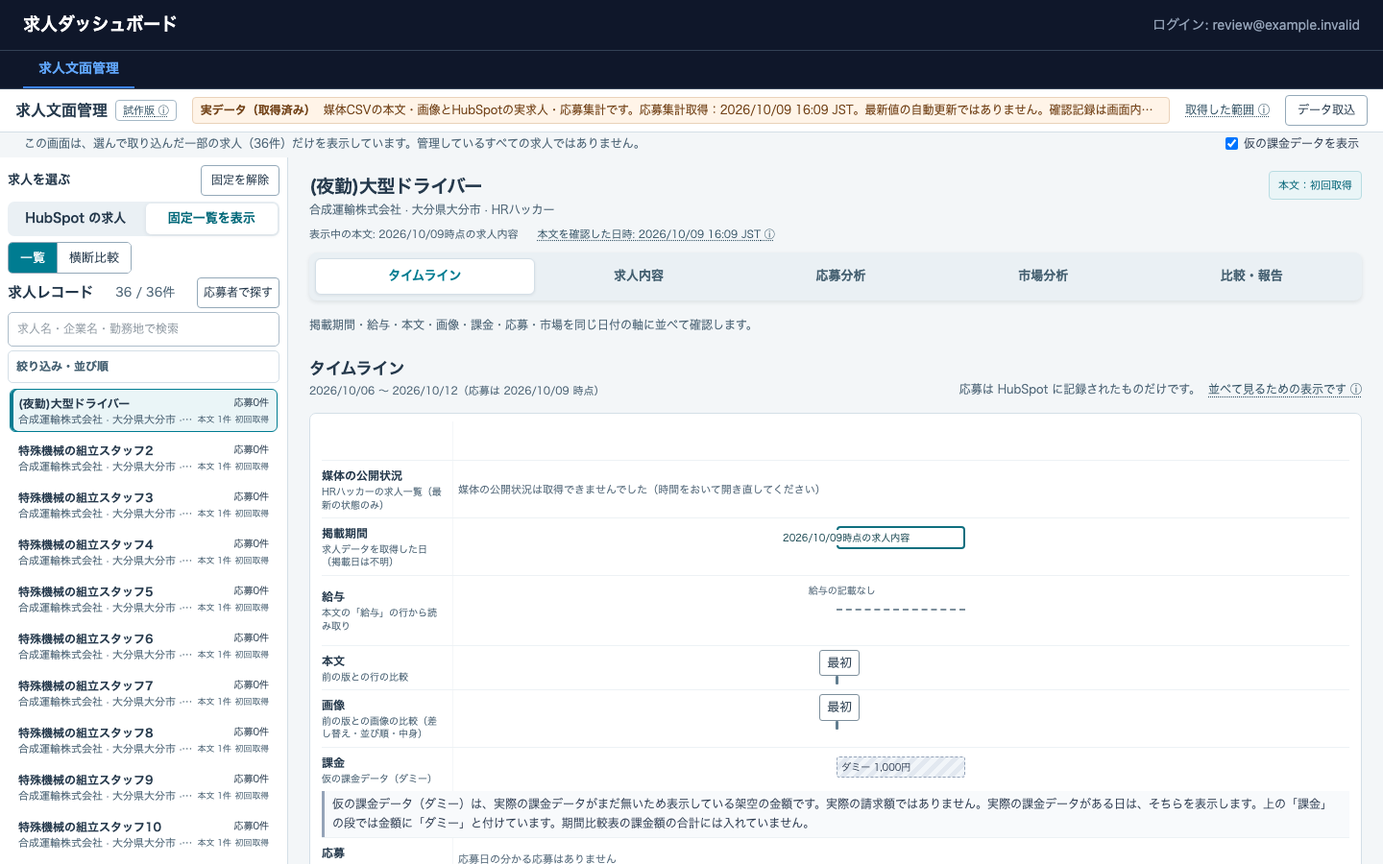
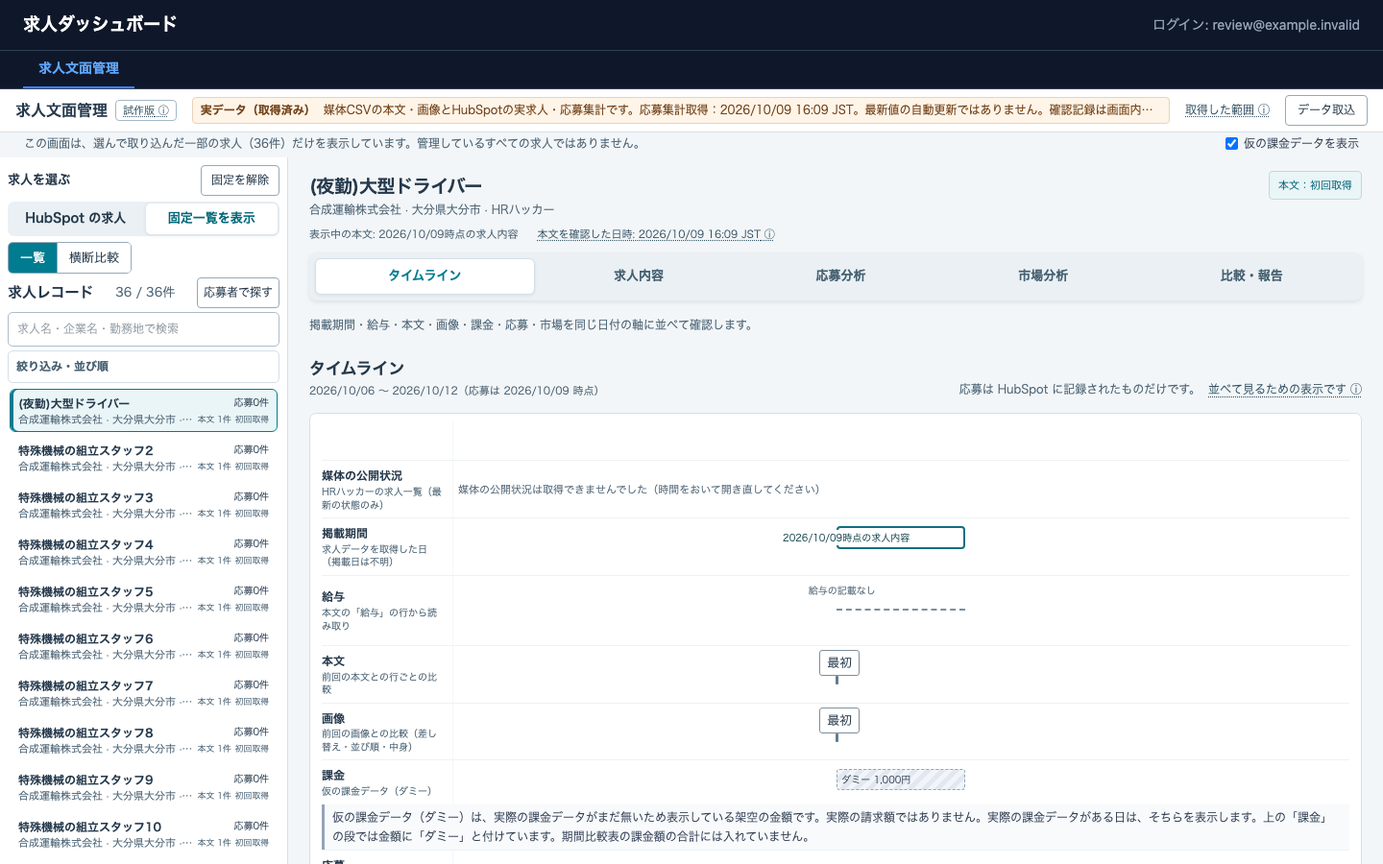
固定一覧の本文と画像の説明を利用者向けの表現に統一する

Changed region(s): [[0.2188, 0.7778, 0.9688, 1.0], [0.5938, 0.8089, 0.625, 0.84]]

diff --git a/frontend/src/screens/job-copy/JobTimeline.tsx b/frontend/src/screens/job-copy/JobTimeline.tsx
@@ -119,7 +119,7 @@ function useTimelineMarket(job: JobCopyRecord, mode: 'api' | 'demo', focus: Mark
 }
 
 const salaryMark = { up: '▲', down: '▼', other: '変更' } as const;
-const salaryWord = { up: '前の版より上がった', down: '前の版より下がった', other: '前の版から変わった' } as const;
+const salaryWord = { up: '前回の本文より上がった', down: '前回の本文より下がった', other: '前回の本文から変わった' } as const;
 const granularityLabel: Record<Granularity, string> = { day: '日', week: '週', month: '月' };
 
 function Lane({ title, source, children, className = '', rows = 1 }: { rows?: number; title: string; source: string; children: ReactNode; className?: string }) {
@@ -223,7 +223,7 @@ export function billingText(row: PeriodRow): string {
   return row.billing.connected ? 'この期間の課金データなし（0円という意味ではありません）' : '課金データなし（0円という意味ではありません）';
 }
 
-/** The 選んだ版 panel's date: the acquisition day, and between which acquisitions it changed. */
+/** The 選んだ本文 panel's date: the acquisition day, and between which acquisitions it changed. */
 export function selectionDateText(change: VersionChange, captured: boolean): string {
   if (!captured) return `${formatDay(change.date)} から（媒体の掲載日時）`;
   if (change.index === 0 || change.previousDate === null) return `${formatDay(change.date)} に取得（最初の取得）`;
@@ -283,7 +283,7 @@ function JobTimelineForJob({ job, billing: injected, marketMode = 'api', onOpenV
   const [granularity, setGranularity] = useState<Granularity>('week');
   const [selected, setSelected] = useState<string | null>(null);
   const reasonIdPrefix = useId();
-  // After a mark or period is chosen, bring the 選んだ版 panel into view (it can sit below the fold).
+  // After a mark or period is chosen, bring the 選んだ本文 panel into view (it can sit below the fold).
   const selectionPanel = useRef<HTMLDivElement>(null);
   useEffect(() => {
     const panel = selectionPanel.current;
@@ -376,9 +376,9 @@ function JobTimelineForJob({ job, billing: injected, marketMode = 'api', onOpenV
       <div><h2>タイムライン</h2><p className="jc-muted">{formatDay(range.start)} 〜 {formatDay(range.end)}（応募は {formatDay(asOf)} 時点）</p></div>
       <div className="jt-scope">応募は HubSpot に記録されたものだけです。<InfoTip label="並べて見るための表示です">
         <p>同じ時期に起きたことを並べて表示しています。応募が増えた・減った理由を示すものではありません。</p>
-        <p>応募件数は HubSpot に記録された応募日で数えています。媒体上のすべての応募ではなく、どの版を見て応募したかは分かりません。</p>
+        <p>応募件数は HubSpot に記録された応募日で数えています。媒体上のすべての応募ではなく、どの本文を見て応募したかは分かりません。</p>
         <p>掲載が変わった日は分かりません。期間比較表は求人データを取得した日で区切り、前後の取得で内容が違うときは「取得日A〜取得日Bの間に変化」として、その間の応募を前後どちらの期間にも入れていません。取得した日も、取得した時刻の前後で変わった可能性があるため、この間に含めます。最後に取得した日より後は「未取得」です。</p>
-        {job.mediaPublication && <p>「媒体の公開状況」は HRハッカーの求人一覧の最新の状態で、求人全体の公開期間です。「掲載期間」はどの内容（版）がいつ載っていたかを、求人データを取得した日で示します。{publicationNotes(job.mediaPublication).join('')}</p>}
+        {job.mediaPublication && <p>「媒体の公開状況」は HRハッカーの求人一覧の最新の状態で、求人全体の公開期間です。「掲載期間」はどの本文がいつ載っていたかを、求人データを取得した日で示します。{publicationNotes(job.mediaPublication).join('')}</p>}
         <p>期間の長さが違うので「1日あたり」で並べて確認してください。{MIN_RATE_DAYS}日に満たない期間は1日あたりを出さず、比べません（求人の横断比較と同じ扱い）。</p>
       </InfoTip></div>
     </header>
@@ -423,7 +423,7 @@ function JobTimelineForJob({ job, billing: injected, marketMode = 'api', onOpenV
         })}
       </Lane>
 
-      <Lane rows={rowCount} title="本文" source="前の版との行の比較">
+      <Lane rows={rowCount} title="本文" source="前回の本文との行ごとの比較">
         {changes.map(change => <button type="button" key={change.versionId} className={`jt-mark${change.index > 0 && change.bodyStatus === 'changed' ? ' jt-mark-changed' : ''}`} aria-pressed={selected === change.versionId}
           style={{ ...pinned(change.date, range), top: `${String(4 + (labelRows[change.index] ?? 0) * 28)}px` }} onClick={() => { setSelected(change.versionId); }}
           aria-label={`${change.label}の本文：${bodyMark(change).spoken}`}>
@@ -431,7 +431,7 @@ function JobTimelineForJob({ job, billing: injected, marketMode = 'api', onOpenV
         </button>)}
       </Lane>
 
-      <Lane rows={rowCount} title="画像" source="前の版との画像の比較（差し替え・並び順・中身）">
+      <Lane rows={rowCount} title="画像" source="前回の画像との比較（差し替え・並び順・中身）">
         {changes.map(change => <button type="button" key={change.versionId} className={`jt-mark jt-image-${change.imageChange}`} aria-pressed={selected === change.versionId}
           style={{ ...pinned(change.date, range), top: `${String(4 + (labelRows[change.index] ?? 0) * 28)}px` }} onClick={() => { setSelected(change.versionId); }}
           aria-label={`${change.label}の画像：${IMAGE_CHANGE_MARK[change.imageChange].spoken}`}>
@@ -460,7 +460,7 @@ function JobTimelineForJob({ job, billing: injected, marketMode = 'api', onOpenV
         <div className="jt-granularity" role="group" aria-label="応募の集計単位">{(['day', 'week', 'month'] as const).map(value => <button type="button" key={value} aria-pressed={granularity === value} onClick={() => { setGranularity(value); }}>{granularityLabel[value]}ごと</button>)}</div>
         {applications && applications.missingDate > 0 && <span>応募日が分からない応募 {applications.missingDate}件 はグラフに含めていません</span>}
         {outside > 0 && <span>{captured ? `最初に取得した日まで（その日を含む）の応募 ${String(outside)}件` : `最初の掲載より前の日付の応募 ${String(outside)}件`}</span>}
-        {unsure > 0 && <span>取得日の間・最後の取得より後の応募 {unsure}件 は、どちらの内容への応募か分からないため期間比較表の各版には入れていません</span>}
+        {unsure > 0 && <span>取得日の間・最後の取得より後の応募 {unsure}件 は、どちらの内容への応募か分からないため期間比較表の各本文には入れていません</span>}
         {multi ? multiTotal > 0 && <span>複数の求人に関連する応募 {multiTotal}件 は期間比較表に入れていません</span>
           : applications?.byDate && <span>複数の求人に関連する応募を見分ける情報を取得していないため、期間比較表の件数に含まれている場合があります</span>}
       </div>
@@ -508,12 +508,12 @@ function JobTimelineForJob({ job, billing: injected, marketMode = 'api', onOpenV
       </div>
     </div>
 
-    {selectedChange && <div className="jt-selection" ref={selectionPanel} role="region" aria-label="選んだ版">
+    {selectedChange && <div className="jt-selection" ref={selectionPanel} role="region" aria-label="選んだ本文">
       <strong>{selectedChange.label}</strong><span>{selectionDateText(selectedChange, periods[selectedChange.index]?.basis === 'captured')} · 給与 {salaryLabel(selectedChange.salary)}</span>
       {onOpenVersion && <button type="button" className="jc-button" onClick={() => { onOpenVersion(selectedChange.versionId); }}>本文・画像を開く</button>}
-      {onCompareVersions && previous && <button type="button" className="jc-button" onClick={() => { onCompareVersions(previous.versionId, selectedChange.versionId); }}>前の版との差分を開く</button>}
-      {previous && selectedChange.bodyStatus === 'unchanged' && selectedChange.imageChange === 'same' && <span>前の版から本文・画像の変更はありません</span>}
-      {previous && selectedChange.bodyStatus === 'unchanged' && selectedChange.imageChange !== 'same' && <span>本文は前の版と同じです。画像：{IMAGE_CHANGE_MARK[selectedChange.imageChange].spoken}</span>}
+      {onCompareVersions && previous && <button type="button" className="jc-button" onClick={() => { onCompareVersions(previous.versionId, selectedChange.versionId); }}>前回の本文との違いを見る</button>}
+      {previous && selectedChange.bodyStatus === 'unchanged' && selectedChange.imageChange === 'same' && <span>前回から本文・画像の変更はありません</span>}
+      {previous && selectedChange.bodyStatus === 'unchanged' && selectedChange.imageChange !== 'same' && <span>本文は前回と同じです。画像：{IMAGE_CHANGE_MARK[selectedChange.imageChange].spoken}</span>}
     </div>}
     <div className="jt-legend" role="group" aria-label="凡例">{captured
       ? <><span className="jt-legend-title">掲載日は不明（取得日で表示）：</span><span><i className="jt-key jt-basis-captured" />取得した日の内容</span><span><i className="jt-key jt-key-zone" />取得日の間（どちらの内容か分からない）</span><span><i className="jt-key jt-key-unacquired" />最後の取得より後（未取得）</span></>
@@ -538,7 +538,7 @@ function JobTimelineForJob({ job, billing: injected, marketMode = 'api', onOpenV
       {rows.some(row => !row.afterCounts && row.applications === null) && <p className="jt-table-note">「未取得」は応募日ごとの件数を取得していないという意味です。0件という意味ではありません。</p>}
       {rows.some(row => row.kind === 'between' || row.kind === 'unacquired') && <p className="jt-table-note">「取得日の間」と「最後の取得より後」の行の応募は、どちらの内容を見た応募か分からないため、前後の期間に入れず別に数えています。応募は日付だけで記録されていて、取得した日も取得した時刻の前後で内容が変わった可能性があるため、取得した日の応募もこれらの行に入れています。1日あたりは比べません。</p>}
       {rows.some(row => !row.afterCounts && row.applications !== null && row.shortPeriod && (row.kind === 'period' || row.kind === 'gap')) && <p className="jt-table-note">「期間が短いため比べません」は、{MIN_RATE_DAYS}日に満たない期間です。1日や2日の件数を1日あたりに直すと大きく振れるため、比べません。</p>}
-      {rows.some(row => row.billing.connected && row.billing.prorated) && <p className="jt-table-note">「約」の付いた課金額は、課金の期間と版の期間がずれているため、日数で割って配分した金額です。</p>}
+      {rows.some(row => row.billing.connected && row.billing.prorated) && <p className="jt-table-note">「約」の付いた課金額は、課金の期間と本文の表示期間がずれているため、日数で割って配分した金額です。</p>}
     </section>
     {reasonClasses && <section className="jt-periods jt-reasons" aria-label="期間ごとの応募理由">
       <h3>期間ごとの応募理由</h3>

diff --git a/tests/e2e/pr/job_copy.spec.ts b/tests/e2e/pr/job_copy.spec.ts
@@ -101,7 +101,7 @@ test.describe('求人文面管理のタイムライン', () => {
     await expect(rows.nth(1).locator('td')).toHaveText(['50日', '5件', '比べません', noRealBilling, '+4.5%（2026年7月 220件 → 2026年8月 230件）']);
     await expect(rows.nth(2).locator('td')).toHaveText(['0日', '別の行に数えます', '期間が短いため比べません', '—', '同じ月の中（2026年8月 230件）']);
     await expect(timeline.getByRole('region', { name: '期間比較表の数値' })).not.toContainText(/11万7,742円|2,355円/u);
-    await expect(timeline).toContainText('取得日の間・最後の取得より後の応募 5件 は、どちらの内容への応募か分からないため期間比較表の各版には入れていません');
+    await expect(timeline).toContainText('取得日の間・最後の取得より後の応募 5件 は、どちらの内容への応募か分からないため期間比較表の各本文には入れていません');
     // 掲載期間の段: 取得日の間を別の帯で示し、凡例は「掲載日は不明（取得日で表示）」
     const periodLane = timeline.getByRole('group', { name: '掲載期間', exact: true });
     await expect(periodLane.locator('.jt-zone')).toHaveCount(1);
@@ -189,14 +189,14 @@ test.describe('求人文面管理のタイムライン', () => {
     for (const mark of overlaps) expect(mark.pinTop, `${String(mark.label)} の線が文字に重なる`).toBeGreaterThanOrEqual(mark.textBottom);
   });
 
-  test('1100x623 で上の帯が 1 行に収まり、印を選ぶと「選んだ版」が画面内に出る', async ({ page }) => {
+  test('1100x623 で上の帯が 1 行に収まり、印を選ぶと「選んだ本文」が画面内に出る', async ({ page }) => {
     await page.setViewportSize({ width: 1100, height: 623 });
     await open(page);
     const topline = await page.locator('.jc-topline').evaluate(element => element.getBoundingClientRect().height);
     expect(topline).toBeLessThan(60);
     const timeline = page.getByRole('region', { name: 'タイムライン', exact: true });
     await timeline.getByRole('group', { name: '本文', exact: true }).locator('.jt-mark').last().click();
-    const panel = timeline.getByRole('region', { name: '選んだ版', exact: true });
+    const panel = timeline.getByRole('region', { name: '選んだ本文', exact: true });
     await expect(panel).toContainText('2026/08/20時点の求人内容');
     await expect(panel).toBeInViewport({ ratio: 0.98 });
     await expect(panel).toContainText('2026/08/20 に取得（前回の取得 2026/07/01 以降に変化）');
@@ -294,11 +294,11 @@ test.describe('求人文面管理のタイムライン', () => {
     await expect(rows.nth(0).locator('td').nth(3)).toHaveText('—');
     await expect(rows.nth(1).locator('td').nth(3)).toHaveText('約2万円（仮の課金データ（ダミー）は合計に入れていません）');
     await expect(rows.nth(2).locator('td').nth(3)).toHaveText('—');
-    await expect(timeline.getByText('「約」の付いた課金額は、課金の期間と版の期間がずれているため、日数で割って配分した金額です。', { exact: true })).toBeVisible();
+    await expect(timeline.getByText('「約」の付いた課金額は、課金の期間と本文の表示期間がずれているため、日数で割って配分した金額です。', { exact: true })).toBeVisible();
     await expect(table.locator('[title]')).toHaveCount(0);
     // 本文の印: 画面の文字と読み上げが同じことを言う
     const marks = await timeline.getByRole('group', { name: '本文', exact: true }).locator('.jt-mark').evaluateAll(elements => elements.map(element => [element.textContent, element.getAttribute('aria-label')]));
-    expect(marks).toEqual([['最初', '2026/07/01時点の求人内容の本文：最初の版'], ['追加1・削除1', '2026/08/20時点の求人内容の本文：1行追加・1行削除']]);
+    expect(marks).toEqual([['最初', '2026/07/01時点の求人内容の本文：最初の本文'], ['追加1・削除1', '2026/08/20時点の求人内容の本文：1行追加・1行削除']]);
     await expect(page.locator('[data-testid="jt-applications"][data-chart-ready="true"]')).toHaveCount(1);
     await expect(page.locator('[data-testid="jt-market"][data-chart-ready="true"]')).toHaveCount(1);
     // 求人内容でも、内部の呼び方（媒体取得版・受信版・確定対応・推定対応）を出さない

diff --git a/frontend/src/screens/job-copy/timelineRound5.test.tsx b/frontend/src/screens/job-copy/timelineRound5.test.tsx
@@ -47,10 +47,10 @@ describe('本文 lane mark', () => {
     const marks = [...screen.getByRole('group', { name: '本文' }).querySelectorAll('button')];
     expect(marks.map(mark => mark.textContent)).toEqual(['最初', '改行のみ', '比べられない', '比べられない']);
     expect(marks.map(mark => mark.getAttribute('aria-label'))).toEqual([
-      '初回の本文：最初の版',
+      '初回の本文：最初の本文',
       '改行違いの本文：改行だけが違います',
-      '空本文の本文：本文が無いため、前の版と比べられません',
-      '同じ本文の本文：本文が無いため、前の版と比べられません',
+      '空本文の本文：本文が無いため、前回の本文と比べられません',
+      '同じ本文の本文：本文が無いため、前回の本文と比べられません',
     ]);
     expect(marks.map(mark => mark.textContent).join('')).not.toContain('追加0');
     expect(marks.some(mark => (mark.getAttribute('aria-label') ?? '').includes('行追加'))).toBe(false);
@@ -58,8 +58,8 @@ describe('本文 lane mark', () => {
 
   it('gives the same counts in the text and the spoken label for a changed body', () => {
     expect(bodyMark({ index: 1, bodyStatus: 'changed', bodyAdded: 2, bodyRemoved: 1 })).toEqual({ text: '追加2・削除1', spoken: '2行追加・1行削除' });
-    expect(bodyMark({ index: 1, bodyStatus: 'unchanged', bodyAdded: 0, bodyRemoved: 0 })).toEqual({ text: '同じ', spoken: '前の版と同じ' });
-    expect(bodyMark({ index: 0, bodyStatus: 'unavailable', bodyAdded: 0, bodyRemoved: 0 })).toEqual({ text: '最初', spoken: '最初の版' });
+    expect(bodyMark({ index: 1, bodyStatus: 'unchanged', bodyAdded: 0, bodyRemoved: 0 })).toEqual({ text: '同じ', spoken: '前回の本文と同じ' });
+    expect(bodyMark({ index: 0, bodyStatus: 'unavailable', bodyAdded: 0, bodyRemoved: 0 })).toEqual({ text: '最初', spoken: '最初の本文' });
   });
 });
 
@@ -72,7 +72,7 @@ describe('explanations that can be read without hovering', () => {
     const table = screen.getByRole('region', { name: '期間比較表の数値' });
     expect(table.querySelectorAll('[title]')).toHaveLength(0);
     expect(table.textContent).toContain('約2万8,125円');
-    expect(screen.getByText('「約」の付いた課金額は、課金の期間と版の期間がずれているため、日数で割って配分した金額です。')).toBeTruthy();
+    expect(screen.getByText('「約」の付いた課金額は、課金の期間と本文の表示期間がずれているため、日数で割って配分した金額です。')).toBeTruthy();
   });
 
   it('shows the 未取得 note when application dates were never fetched', () => {
@@ -109,7 +109,7 @@ describe('explanations that can be read without hovering', () => {
 describe('plain names for version kinds and counts', () => {
   it('treats the old internal names as developer terms', () => {
     for (const word of ['媒体取得版', '媒体CSV取得版', '受信版', '確定対応', '推定対応', '選択版の確定＋推定対応']) expect(word).toMatch(JARGON_PATTERN);
-    for (const word of ['媒体から取り込んだ求人', '確認待ちの文面', '応募日で結びついた応募', '気づいた日の版で数えた応募', '選んだ版に結びついた応募']) expect(word).not.toMatch(JARGON_PATTERN);
+    for (const word of ['媒体から取り込んだ求人', '確認待ちの文面', '応募日で結びついた応募', '気づいた日の版で数えた応募', '選んだ本文に結びついた応募']) expect(word).not.toMatch(JARGON_PATTERN);
   });
 
   it('names a received text 確認待ちの文面 and shows no developer terms after adding it', async () => {

diff --git a/frontend/src/screens/job-copy/timelineRound3.test.tsx b/frontend/src/screens/job-copy/timelineRound3.test.tsx
@@ -47,14 +47,14 @@ describe('salary direction (▲ only for a raise)', () => {
     render(<JobTimeline job={demo('demo-job-001')} marketMode="demo" />);
     const labels = [...screen.getByRole('group', { name: '給与' }).querySelectorAll('.jt-salary-label')].map(label => label.textContent);
     expect(labels).toEqual(['月給25万〜28万円', '▲月給27万〜30万円', '▼月給25万〜28万円']);
-    expect(screen.getByRole('img', { name: '前の版より下がった' }).textContent).toBe('▼');
-    expect(screen.getByRole('img', { name: '前の版より上がった' }).textContent).toBe('▲');
+    expect(screen.getByRole('img', { name: '前回の本文より下がった' }).textContent).toBe('▼');
+    expect(screen.getByRole('img', { name: '前回の本文より上がった' }).textContent).toBe('▲');
   });
   it('says 変更 (not ▲ or ▼) when the kind of pay changes', () => {
     const job = synthetic([version('a', '2026-07-01T00:00:00Z', '給与：月給250,000円'), version('b', '2026-08-01T00:00:00Z', '給与：時給1,500円')]);
     expect(versionChanges(job).map(change => change.salaryDirection)).toEqual([null, 'other']);
     render(<JobTimeline job={job} marketMode="demo" />);
-    expect(screen.getByRole('img', { name: '前の版から変わった' }).textContent).toBe('変更');
+    expect(screen.getByRole('img', { name: '前回の本文から変わった' }).textContent).toBe('変更');
   });
   it('compares the upper bound when the lower bound is the same', () => {
     const job = synthetic([version('a', '2026-07-01T00:00:00Z', '給与：月給250,000円〜300,000円'), version('b', '2026-08-01T00:00:00Z', '給与：月給250,000円〜280,000円')]);
@@ -63,16 +63,16 @@ describe('salary direction (▲ only for a raise)', () => {
 });
 
 describe('selection, retry focus and announcements', () => {
-  it('scrolls the 選んだ版 panel into view after a mark is chosen, and the panel sits right under the lanes', () => {
+  it('scrolls the 選んだ本文 panel into view after a mark is chosen, and the panel sits right under the lanes', () => {
     const scroll = vi.fn();
     Object.defineProperty(HTMLElement.prototype, 'scrollIntoView', { configurable: true, writable: true, value: scroll });
     render(<JobTimeline job={demo('demo-job-001')} marketMode="demo" onOpenVersion={() => undefined} onCompareVersions={() => undefined} />);
     fireEvent.click(screen.getByRole('button', { name: /給与・勤務条件変更の本文/ }));
-    const panel = screen.getByRole('region', { name: '選んだ版' });
+    const panel = screen.getByRole('region', { name: '選んだ本文' });
     expect(scroll).toHaveBeenCalledWith({ block: 'nearest' });
     expect(scroll.mock.contexts.at(-1)).toBe(panel);
     expect(panel.previousElementSibling?.classList.contains('jt-lanes')).toBe(true);
-    expect(within(panel).getByRole('button', { name: '前の版との差分を開く' })).toBeTruthy();
+    expect(within(panel).getByRole('button', { name: '前回の本文との違いを見る' })).toBeTruthy();
   });
 
   it('keeps the retry button while retrying, then moves focus to 職種 and announces the result', async () => {

diff --git a/frontend/src/screens/job-copy/timelineConformance.test.tsx b/frontend/src/screens/job-copy/timelineConformance.test.tsx
@@ -99,7 +99,7 @@ describe('1. versions dated by acquisition day', () => {
     const third = within(screen.getByRole('group', { name: '本文' })).getAllByRole('button')[2];
     if (!third) throw new Error('missing the third 本文 mark');
     fireEvent.click(third);
-    expect(screen.getByRole('region', { name: '選んだ版' }).textContent).toContain('2026/08/20 に取得（前回の取得 2026/07/15 以降に変化）');
+    expect(screen.getByRole('region', { name: '選んだ本文' }).textContent).toContain('2026/08/20 に取得（前回の取得 2026/07/15 以降に変化）');
     const cells = within(screen.getByRole('region', { name: '期間比較表の数値' })).getAllByRole('row').slice(1).map(row => row.querySelectorAll('td')[2]?.textContent);
     expect(cells).toEqual(['0.15件/日', '期間が短いため比べません', '比べません', '期間が短いため比べません', '比べません']);
     const counts = within(screen.getByRole('region', { name: '期間比較表の数値' })).getAllByRole('row').slice(1).map(row => row.querySelectorAll('td')[1]?.textContent);
@@ -153,16 +153,16 @@ describe('2. images: references and file contents', () => {
     render(<JobTimeline job={record} marketMode="demo" showDummyBilling={false} />);
     const marks = within(screen.getByRole('group', { name: '画像' })).getAllByRole('button');
     expect(marks.map(mark => [mark.textContent, mark.getAttribute('aria-label')])).toEqual([
-      ['最初', `${changes[0]?.label ?? ''}の画像：最初の版`],
+      ['最初', `${changes[0]?.label ?? ''}の画像：最初の本文`],
       ['中身', `${changes[1]?.label ?? ''}の画像：同じ場所の画像の中身が変わりました`],
-      ['未取得', `${changes[2]?.label ?? ''}の画像：この版の画像は未取得です`],
+      ['未取得', `${changes[2]?.label ?? ''}の画像：この本文に対応する画像は未取得です`],
     ]);
     const second = marks[1];
     if (!second) throw new Error('missing the second 画像 mark');
     fireEvent.click(second);
-    const panel = screen.getByRole('region', { name: '選んだ版' });
-    expect(panel.textContent).not.toContain('前の版から本文・画像の変更はありません');
-    expect(panel.textContent).toContain('本文は前の版と同じです。画像：同じ場所の画像の中身が変わりました');
+    const panel = screen.getByRole('region', { name: '選んだ本文' });
+    expect(panel.textContent).not.toContain('前回から本文・画像の変更はありません');
+    expect(panel.textContent).toContain('本文は前回と同じです。画像：同じ場所の画像の中身が変わりました');
     // The days between i1 and i2 belong to neither version (the images changed in between).
     expect(periodRows(record, { asOf: '2026-07-20', dummyBilling: false }).map(row => row.kind)).toEqual(['period', 'between', 'period', 'between', 'period']);
   });

diff --git a/frontend/src/screens/job-copy/mediaCaptureParser.ts b/frontend/src/screens/job-copy/mediaCaptureParser.ts
@@ -97,16 +97,16 @@ function observedVersion(item: Record<string, unknown>, id: string, capturedAt: 
   }
   // Without the CSV's image URLs and with no images, the version's images are not known at all.
   const urlsUnknown = references === undefined && images.length === 0;
-  const archived = historicBytes !== false ? '' : urlsUnknown ? '過去時点の画像ファイルとこの版の画像URLは未取得です。前後の版と画像を比べられません。'
-    : `過去時点の画像ファイルは未保存です。${images.length ? '表示画像は後日取得したものです。' : ''}画像の変化は媒体CSVの画像URLと並び順で判定しています。`;
+  const archived = historicBytes !== false ? '' : urlsUnknown ? '過去時点の画像ファイルとこの本文に対応する画像の情報は未取得です。前回・次回の画像と比べられません。'
+    : `過去時点の画像ファイルは未保存です。${images.length ? '表示画像は後日取得したものです。' : ''}画像の変化は媒体に記載された画像の参照先と並び順で確認しています。`;
   return {
-    id, label: `${capturedLabel(capturedAt)}時点の求人内容`, source: historical ? 'HRハッカー過去CSV・画像参照' : 'HRハッカーCSV・掲載画像',
+    id, label: `${capturedLabel(capturedAt)}時点の求人内容`, source: historical ? 'HRハッカーの過去の本文・画像' : 'HRハッカーの本文・掲載画像',
     observedAt: capturedAt, certainty: 'unknown', kind: 'published', body: text(item.body, 100_000, true),
     ...(status.unavailable || (historicBytes === false && images.length === 0) ? {} : { images }), applications: null,
     ...(references === undefined ? {} : { imageReferences: references }),
     ...(typeof historicBytes === 'boolean' ? { historicalImageBytesAvailable: historicBytes } : {}),
     ...(item.observedRawStatus === undefined ? {} : { observedPublicationStatus: text(item.observedRawStatus, 100, true) }),
-    note: `媒体CSVから取得した版です。媒体での掲載・更新日時と応募情報は未取得です。${historical ? '過去CSVの取得ラベルは掲載切り替わり日時を示しません。' : ''}${status.note}${imageTime}${archived}${provenance}${timeBasis}`,
+    note: `媒体から取り込んだ本文です。媒体での掲載・更新日時と応募情報は未取得です。${historical ? '過去の本文を確認した日は、掲載内容が切り替わった日時ではありません。' : ''}${status.note}${imageTime}${archived}${provenance}${timeBasis}`,
   };
 }
 

diff --git a/tests/e2e/job_copy_ui_polish.spec.ts b/tests/e2e/job_copy_ui_polish.spec.ts
@@ -122,7 +122,17 @@ for (const [width, height] of [[1440, 900], [1440, 690], [1920, 900]]) {
       await expect(page.locator('.jc-detail-heading')).toContainText('特殊機械の組立スタッフ2');
       if (!pinned) await page.getByRole('button', { name: '求人一覧を開く' }).hover();
       await expect.poll(() => wholeCards(page, '.jc-fixed-list .jc-job')).toBeGreaterThanOrEqual(5);
+      if (!pinned) {
+        await page.keyboard.press('Escape');
+        await expect(page.locator('.jc-workspace')).not.toHaveClass(/jc-sidebar-open/);
+      }
+      await selectJobFeature(page, 'timeline');
+      await expect(page.getByRole('group', { name: '本文', exact: true })).toContainText('前回の本文との行ごとの比較');
+      await expect(page.getByRole('group', { name: '画像', exact: true })).toContainText('前回の画像との比較');
       await selectJobFeature(page, 'body');
+      await expect(page.locator('.jc-reading')).toContainText('媒体から取り込んだ本文です。');
+      await expect(page.locator('.jc-reading')).toContainText('この本文に対応する画像はありません。');
+      await expect(page.locator('.jc-reading')).not.toContainText(/この版|前の版|媒体CSVから/);
       await expect(page.getByRole('button', { name: 'この本文を前の本文と比較する →', exact: true })).toBeVisible();
       await expect(page.locator('.jc-main')).not.toContainText('この版を前の版と比較する');
       if (!pinned) await page.getByRole('button', { name: '求人一覧を開く' }).hover();

diff --git a/frontend/src/screens/job-copy/ImageGallery.tsx b/frontend/src/screens/job-copy/ImageGallery.tsx
@@ -18,7 +18,7 @@ export function ImageGallery({ images, title, marks = [] }: { images: CopyImage[
   const headingId = useId();
   const [selected, setSelected] = useState<CopyImage | null>(null);
   return <section className="jc-image-section" aria-label={title}><h3>{title}</h3>
-    {images === undefined ? <p className="jc-muted">画像は未取得です。画像なし・削除とは判定していません。</p> : images.length === 0 ? <p className="jc-muted">この版の画像は0点です。</p> : <div className="jc-image-grid">{images.map((image, index) => <figure key={`${image.id}-${String(index)}`} className={marks.includes(image.sourceReferenceHash ?? image.url) ? 'jc-image-marked' : ''}>
+    {images === undefined ? <p className="jc-muted">画像は未取得です。画像なし・削除とは判定していません。</p> : images.length === 0 ? <p className="jc-muted">この本文に対応する画像はありません。</p> : <div className="jc-image-grid">{images.map((image, index) => <figure key={`${image.id}-${String(index)}`} className={marks.includes(image.sourceReferenceHash ?? image.url) ? 'jc-image-marked' : ''}>
       <RetryableImage key={image.url} image={image} slot={image.sourceSlot ?? index + 1} onOpen={() => { setSelected(image); dialog.current?.showModal(); }} />
       <figcaption><strong>画像{image.sourceSlot ?? index + 1}</strong> {image.caption}{marks.includes(image.sourceReferenceHash ?? image.url) && <span>変更対象</span>}</figcaption>
     </figure>)}</div>}

diff --git a/frontend/src/screens/job-copy/mediaCaptureImport.test.ts b/frontend/src/screens/job-copy/mediaCaptureImport.test.ts
@@ -168,7 +168,7 @@ describe('private media capture import', () => {
     const versions = parseMediaCapture(JSON.stringify({ ...source, jobs }))[0]?.versions;
     expect(versions).toHaveLength(2);
     expect(versions?.[0]).toMatchObject({ id: 'previous-csv', observedAt: previous.capturedAt, body: previous.body, historicalImageBytesAvailable: false, applications: null });
-    expect(versions?.[0]?.note).toContain('画像の変化は媒体CSVの画像URLと並び順で判定しています');
+    expect(versions?.[0]?.note).toContain('画像の変化は媒体に記載された画像の参照先と並び順で確認しています');
     expect(versions?.[0]?.note).toContain(previous.imageAcquiredAt);
     expect(versions?.[0]).not.toHaveProperty('publishedFrom');
     expect(versions?.[1]?.observedAt).toBe(capturedAt);
@@ -187,7 +187,7 @@ describe('private media capture import', () => {
     const history = [{ ...source.jobs[0], id: 'old-no-pixels', capturedAt: '2026-09-01T00:00:00Z', images: [], historicalImageBytesAvailable: false }];
     const version = parseMediaCapture(JSON.stringify({ ...source, jobs: [{ ...source.jobs[0], history }] }))[0]?.versions[0];
     expect(version).not.toHaveProperty('images');
-    expect(version?.note).toContain('この版の画像URLは未取得です');
+    expect(version?.note).toContain('この本文に対応する画像の情報は未取得です');
   });
 
   it('rejects future, simultaneous, duplicate, or excessive historical observations', () => {

diff --git a/frontend/src/screens/job-copy/timelineModel.ts b/frontend/src/screens/job-copy/timelineModel.ts
@@ -405,12 +405,12 @@ export function countApplications(byDate: Record<string, number> | undefined, st
  * is 比べられない, never 追加0・削除0 (which would read as "nothing changed").
  */
 export function bodyMark(change: Pick<VersionChange, 'index' | 'bodyStatus' | 'bodyAdded' | 'bodyRemoved'>): { text: string; spoken: string } {
-  if (change.index === 0) return { text: '最初', spoken: '最初の版' };
+  if (change.index === 0) return { text: '最初', spoken: '最初の本文' };
   switch (change.bodyStatus) {
-    case 'unchanged': return { text: '同じ', spoken: '前の版と同じ' };
+    case 'unchanged': return { text: '同じ', spoken: '前回の本文と同じ' };
     case 'format_only': return { text: '改行のみ', spoken: '改行だけが違います' };
-    case 'unavailable': return { text: '比べられない', spoken: '本文が無いため、前の版と比べられません' };
-    case 'initial': return { text: '最初', spoken: '最初の版' };
+    case 'unavailable': return { text: '比べられない', spoken: '本文が無いため、前回の本文と比べられません' };
+    case 'initial': return { text: '最初', spoken: '最初の本文' };
     case 'changed': return { text: `追加${String(change.bodyAdded)}・削除${String(change.bodyRemoved)}`, spoken: `${String(change.bodyAdded)}行追加・${String(change.bodyRemoved)}行削除` };
   }
 }

diff --git a/frontend/src/screens/job-copy/images.ts b/frontend/src/screens/job-copy/images.ts
@@ -107,11 +107,11 @@ export function imageChangeKind(previous: ImageVersion | undefined, current: Ima
 }
 /** The short mark and the spoken text of the 画像 lane, from the same kind. */
 export const IMAGE_CHANGE_MARK: Record<ImageChangeKind, { text: string; spoken: string }> = {
-  initial: { text: '最初', spoken: '最初の版' },
-  missing: { text: '未取得', spoken: 'この版の画像は未取得です' },
+  initial: { text: '最初', spoken: '最初の本文' },
+  missing: { text: '未取得', spoken: 'この本文に対応する画像は未取得です' },
   replaced: { text: '差し替え', spoken: '画像の差し替えがあります' },
   reordered: { text: '並び順', spoken: '画像の並び順が変わりました' },
   content: { text: '中身', spoken: '同じ場所の画像の中身が変わりました' },
-  same: { text: '同じ', spoken: '画像（URLと並び順）は前の版と同じです' },
-  unknown: { text: '不明', spoken: '前の版の画像URLが未取得のため比べられません' },
+  same: { text: '同じ', spoken: '画像の参照先と並び順は前回と同じです' },
+  unknown: { text: '不明', spoken: '前回の画像の情報が未取得のため比べられません' },
 };

diff --git a/frontend/src/screens/job-copy/timelineRound6.test.tsx b/frontend/src/screens/job-copy/timelineRound6.test.tsx
@@ -68,7 +68,7 @@ describe('「約」 note', () => {
     render(<JobTimeline job={job} marketMode="demo" />);
     const cells = within(within(screen.getByRole('region', { name: '期間比較表の数値' })).getByRole('table')).getAllByRole('row').slice(1).map(row => row.querySelectorAll('td')[3]?.textContent ?? '');
     expect(cells.every(cell => cell === '実際の課金データなし（仮の課金データ（ダミー）は合計しません）')).toBe(true);
-    expect(screen.queryByText('「約」の付いた課金額は、課金の期間と版の期間がずれているため、日数で割って配分した金額です。')).toBeNull();
+    expect(screen.queryByText('「約」の付いた課金額は、課金の期間と本文の表示期間がずれているため、日数で割って配分した金額です。')).toBeNull();
   });
 });
 
